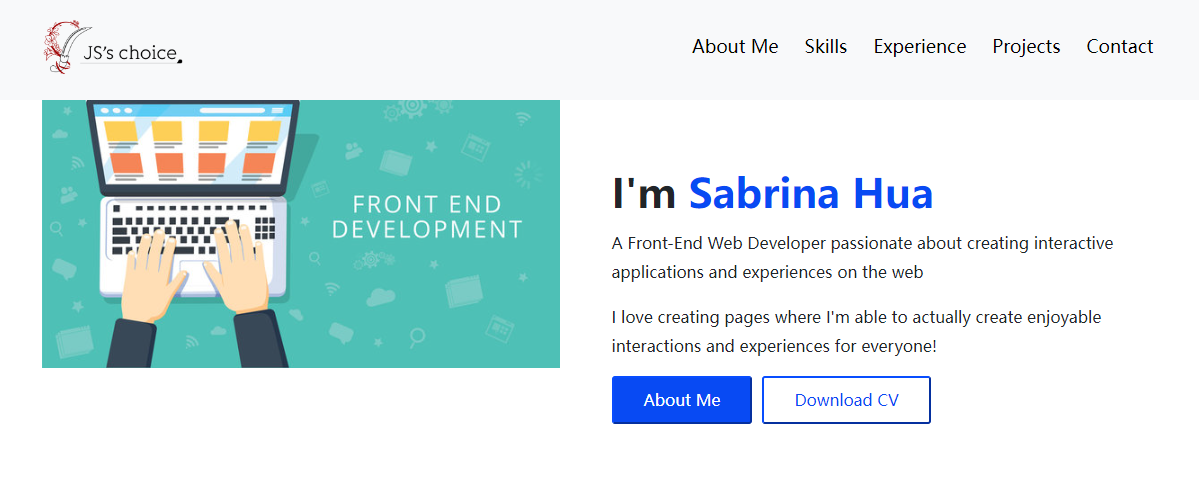
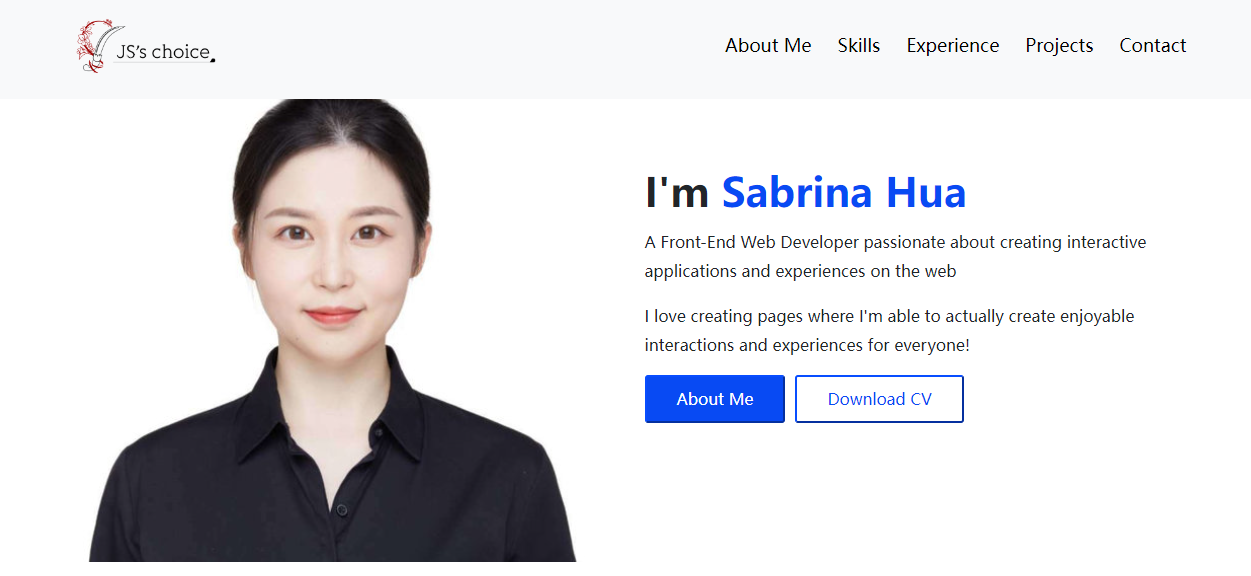
updated README screenshot

diff --git a/src/pages/Home.js b/src/pages/Home.js
@@ -23,7 +23,7 @@ const Home = () => {
             <Container>
               <Row className="Hero">
                 <Col sm={12} md={6}>
-                  <img className="ProfileImage" src={Sagar} alt="Priya's profile"/>
+                  <img className="ProfileImage" src="https://i1.rgstatic.net/ii/profile.image/958546011250688-1605546586056_Q512/Jingyu-Hua-2.jpg" alt="sabrina's profile"/>
                 </Col>
                 <Col sm={12} md={6} className="HeroContent">
                   <h6>I'm <span style={{color:"#084AF3"}}>Sabrina Hua</span></h6>
